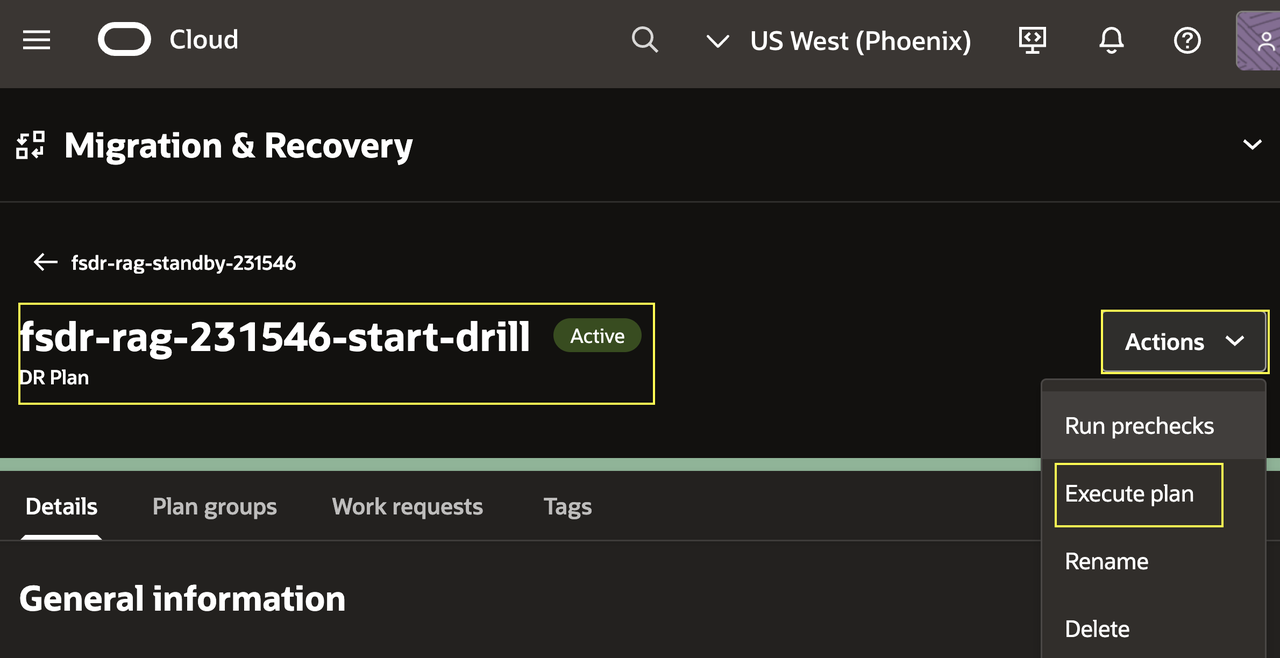
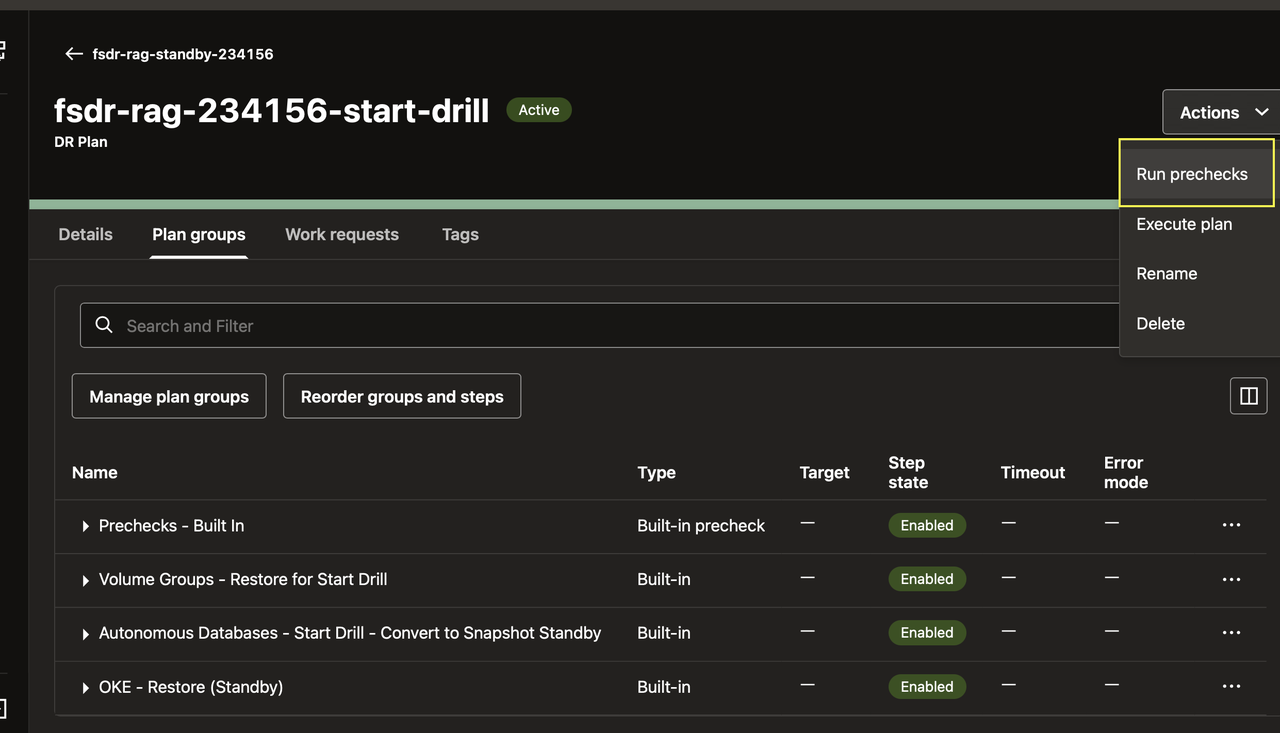
Additional feedback
Additional feedback

diff --git a/oci-fullstack-recovery/oci-fullstack-oke/configure-backup-recovery/configure-backup-recovery.md b/oci-fullstack-recovery/oci-fullstack-oke/configure-backup-recovery/configure-backup-recovery.md
@@ -7,15 +7,21 @@ In this lab, use the supplied configuration script to configure OCI Full Stack B
 Watch the video below for a quick walk-through of the lab.
 [Configure and Execute Full Stack Backup Recovery](videohub:1_d7qsytvw)
 
-The synthetic AI workload runs on both compute VMs as a scheduler. It continuously updates a counter by completing one job every minute. Record the counter value before and after Full Stack BR operations and use it to observe workload continuity during backup and recovery testing.
+The synthetic AI workload runs on both compute VMs and completes one job every minute. Record the job counter before and after Full Stack BR operations to observe workload continuity during backup and recovery testing.
 
-At a high level, the configuration script creates the backup policy and Full Stack BR protection group, adds the compute and volume group members, and activates protection. You then use the OCI Console to create or review member backups, create a recovery point from the Recovery Catalog, and use a Full Stack BR plan to recover a protected compute resource.
+The configuration script creates the backup policy and Full Stack BR protection group, adds the compute and volume group members, and activates protection. You then review the member backups, create a recovery point, and run the recovery plan.
 
-**Before you begin:** Start the Start Drill execution in Lab 3, Task 2, Steps 1–4. Begin this lab during the drill wait, using the Ashburn Cloud Shell. Keep the Phoenix drill execution open in another tab.
+**Before you begin:** Start the Start Drill in Lab 3, Task 2, Steps 1–4. Then:
 
-**When to switch back to Full Stack DR:** Check the drill status between steps and while waiting for operations. As soon as the Start Drill shows **Succeeded**, note your current Lab 5 task, step, and any running operation, then pause these instructions. Leave running scripts, backups, and recovery operations open and let them continue; do not cancel or restart them. Return to [Lab 3](?lab=execute-prechecks-start-drill), Task 2, Step 5, complete the remaining checks, and then finish [Lab 4](?lab=test-recovery). If the drill fails, return to Lab 3 to investigate; do not start Lab 4 until the drill succeeds.
+- Begin Lab 5 during the drill wait using the Ashburn Cloud Shell.
+- Keep the Phoenix drill execution open in another browser tab.
+- Check the drill status between Lab 5 steps.
 
-**After Lab 4:** Return to your recorded Lab 5 task and step. Check the status of any operation you left running before continuing; do not submit it again. Complete every remaining task in this lab. If you already completed Lab 5 during the drill wait, you do not need to repeat it.
+**When the Start Drill shows Succeeded:** Pause Lab 5 and note your current task and step. Leave running operations open, return to [Lab 3](?lab=execute-prechecks-start-drill), complete the remaining checks, and finish [Lab 4](?lab=test-recovery). Then resume Lab 5.
+
+If the drill fails, return to Lab 3 to investigate.
+
+**After Lab 4:** Return to your recorded Lab 5 task and step. Check any operation you left running before continuing; do not submit it again. Complete the remaining tasks in this lab.
 
 Estimated Time: 20 minutes
 
@@ -34,6 +40,8 @@ In this lab, you will:
 
 1. In the **Ashburn** region, open the OCI Console navigation menu and select **Compute**, then **Instances**. In the compartment assigned to you, locate these two compute instances:
 
+    ![OCI Console navigation menu showing Compute and Instances in Ashburn](./images/oci-navigation-ashburn-compute-instances.png)
+
     - `fsr-ai-app-recovery-vm-0`
     - `fsr-ai-app-recovery-vm-1`
 
@@ -42,6 +50,8 @@ In this lab, you will:
     ![Ashburn Full Stack BR compute instances](./images/full-stack-br-compute-instances.png)
 
 2. In separate browser tabs, open `http://<public-ip-1>` for VM 0 and `http://<public-ip-2>` for VM 1. Use the first tab to monitor VM 0 and the second tab to monitor VM 1. Record the number of completed AI jobs shown by the synthetic AI workload on each VM. These values are the baseline for the Full Stack BR backup and recovery validation. Keep both tabs open throughout Lab 5 and return to them at each major Full Stack BR milestone to record the updated counters.
+
+    If a browser security warning appears when opening the VM workload page, proceed to the site and continue. If you encounter another browser error, try a different browser or use a private/incognito window.
 
     **In the example run, the baseline is 454 completed jobs on each VM. Your values will vary depending on when each VM was started and how long the workload has been running. Always use the values displayed in your own VM tabs when comparing checkpoints.**
 
@@ -90,6 +100,8 @@ In this lab, you will:
 ## Task 3: Review the Full Stack BR Protection Group
 
 1. In the Ashburn OCI Console, open the navigation menu and select **Migration & Recovery**, then **Backup Recovery**.
+
+    ![OCI Console navigation menu showing Migration & Recovery and Backup Recovery in Ashburn](./images/oci-navigation-ashburn-backup-recovery.png)
 
     Confirm that the **Backup Recovery** protection-group page is open and that the Full Stack BR protection group created by the script appears in the assigned compartment. Its name follows the pattern `fsbr-vm-vg-xxxxxx`, where `xxxxxx` is generated for your environment.
 
@@ -160,6 +172,8 @@ In this lab, you will:
     ![Create a Full Stack BR recovery point](./images/full-stack-br-create-recovery-point.png)
 
 3. Monitor the Recovery catalog until **First recovery point** is **Active**. Confirm that the recovery point is available and uses the member backups created in Task 4.
+
+    Open the recovery point details and confirm that it references the four active member backups created in Task 4: two compute-instance backups and two volume-group backups.
 
     ![Active First recovery point](./images/full-stack-br-recovery-catalog-point.png)
 

diff --git a/oci-fullstack-recovery/oci-fullstack-oke/configure-fsdr/configure-fsdr.md b/oci-fullstack-recovery/oci-fullstack-oke/configure-fsdr/configure-fsdr.md
@@ -2,7 +2,9 @@
 
 ## Introduction
 
-Configure Full Stack DR for the AI application from Lab 1. Keep the original Ashburn Cloud Shell session available. The configuration creates DR Protection Groups and DR plans for the primary and standby regions. It configures the DR plan to convert the standby Autonomous AI Database to a snapshot standby when you execute Start Drill in Lab 3.
+Configure OCI Full Stack DR for the AI application deployed in Lab 1. Keep the original Ashburn Cloud Shell session available.
+
+This lab creates DR protection groups and plans for the primary and standby regions. The Start Drill plan converts the standby Autonomous AI Database to the Snapshot Standby role, restores the application to the standby OKE cluster, and restores its associated storage when you execute the plan in Lab 3.
 
 Watch the video below for a quick walk-through of the lab.
 [Configure Full Stack DR](videohub:1_zwchhrdr)
@@ -19,7 +21,7 @@ Estimated Time: 15 minutes
 
 In this lab, you will:
 
-- Run the Full Stack DR snapshot standby configuration script.
+- Run the Full Stack DR configuration script.
 - Confirm that the configuration completes successfully.
 - Verify the DR protection groups and DR plans in the OCI Console.
 
@@ -35,7 +37,7 @@ In this lab, you will:
     </copy>
     ```
 
-2. Run the Full Stack DR snapshot standby configuration script.
+2. Run the Full Stack DR configuration script.
 
     Before you run the script, review the configuration flow. The script performs these actions in order:
 
@@ -75,6 +77,14 @@ In this lab, you will:
 
 1. While the script runs, open two additional OCI Console tabs. Set one to **Ashburn** and the other to **Phoenix**. Keep the Ashburn Cloud Shell tab open. In each Console tab, select **Migration & Recovery**, then **Recovery**, and then **Disaster Recovery**.
 
+    **Ashburn:**
+
+    ![OCI Console navigation menu showing Migration & Recovery, Recovery, and Disaster Recovery in Ashburn](./images/oci-navigation-ashburn-disaster-recovery.png)
+
+    **Phoenix:**
+
+    ![OCI Console navigation menu showing Migration & Recovery, Recovery, and Disaster Recovery in Phoenix](./images/oci-navigation-phoenix-disaster-recovery.png)
+
 2. In both OCI Console tabs, change to the compartment assigned to you. Expand the root compartment, select **Livelabs**, and then select your assigned compartment.
 
 3. Open **DR Protection groups** in each Console tab and monitor the pages as the primary and standby protection groups are created. Refresh the Console tabs periodically if the resources do not appear immediately; do not refresh the Cloud Shell tab. Verify the region-specific names:
@@ -100,7 +110,7 @@ In this lab, you will:
 
     ![Phoenix Full Stack DR protection groups members](./images/phoenix-full-stack-dr-protection-groups-members.png)
 
-5. After you confirm successful completion in the Ashburn Cloud Shell, use the Phoenix Console tab to open the plans for the **standby DR protection group**. Confirm that the following plans are available:
+5. After the configuration script in Task 1 completes successfully in the Ashburn Cloud Shell, use the Phoenix Console tab to open the plans for the **standby DR protection group**. Confirm that the following plans are available:
 
     ![Full Stack DR plans](./images/full-stack-dr-plans.png)
 
@@ -144,24 +154,14 @@ In this lab, you will:
 
     ![Start Drill plan groups in the standby DR protection group](./images/fsdr-start-drill-plan-groups.png)
 
-    After the separate precheck run in Lab 3, the **Start Drill** execution restores the Ollama volume group for the drill, converts the standby Autonomous Database to a snapshot standby, and restores the standby OKE cluster. These steps create a recovery test environment without changing the production roles of the DR protection groups.
+    The **Start Drill** plan uses these resources to create a recovery test environment without changing the production roles of the DR protection groups.
 
+    **Important:**
 
-    > **Workshop execution:** We will run the **Start Drill** plan as part of this workshop in **Lab 3**. Do not execute it in Lab 2.
-
-    > ---
-
-    > **Stop Drill:** After the **Start Drill** plan completes successfully, Full Stack DR allows you to create a **Stop Drill** plan to end the drill and restore the environment. Creating or running a **Stop Drill** plan is not part of this workshop.
-
-    > ---
-
-    > **DR protection group roles:** Executing a successful **Switchover** or **Failover** plan changes the roles of the DR protection groups. After the role change, you can create Switchover and Failover plans in the new standby DR protection group. Executing a **Start Drill** or **Stop Drill** plan does not change the roles of the DR protection groups.
-
-    > ---
-
-    > **User-defined plan groups:** Full Stack DR allows you to customize plans with user-defined plan groups. You can add your own scripts or OCI Functions alongside the built-in plan groups, or create a plan containing only user-defined plan groups. This workshop does not customize the DR plans with user-defined plan groups. To configure them, use **Manage plan groups**.
-
-    Do not click **Start**, **Execute**, or **Run Prechecks** for any plan in Lab 2. The **Start Drill** plan is executed in Lab 3.
+    - Do not run or precheck any plan in Lab 2. The **Start Drill** plan runs in Lab 3.
+    - After a successful **Start Drill**, you can create a **Stop Drill** plan to end the drill and restore the environment. Running it is outside the scope of this workshop.
+    - **Switchover** and **Failover** change the DR protection group roles. **Start Drill** and **Stop Drill** do not change the roles.
+    - This workshop uses the built-in plan groups. User-defined plan groups are not covered; use **Manage plan groups** to customize plans.
 
 In Lab 3, you will run prechecks and execute the **Start Drill** plan, then monitor the drill execution until it succeeds.
 

diff --git a/oci-fullstack-recovery/oci-fullstack-oke/execute-prechecks-start-drill/execute-prechecks-start-drill.md b/oci-fullstack-recovery/oci-fullstack-oke/execute-prechecks-start-drill/execute-prechecks-start-drill.md
@@ -2,16 +2,18 @@
 
 ## Introduction
 
-In this lab, run prechecks and execute the Full Stack DR **Start Drill** plan from Lab 2. The drill starts recovery in the Phoenix standby region. It does not promote Phoenix to the production role. Leave the drill running after it completes. Lab 4 validates the application there.
+In this lab, run prechecks and execute the Full Stack DR **Start Drill** plan from Lab 2. The drill restores the application in the Phoenix standby region without promoting Phoenix to the production role. Lab 4 validates the recovered application there.
 
 Watch the video below for a quick walk-through of the lab.
 [Execute Prechecks and Start Drill](videohub:1_v9tpaggr)
 
-Complete Lab 3 Task 1 and start the Start Drill execution in Task 2. Use the drill wait to work on Lab 5. The Start Drill can take 15–20 minutes. When it succeeds, pause your Lab 5 instructions, complete the remaining Lab 3 checks, and finish Lab 4 before resuming any unfinished Lab 5 tasks.
+Complete Task 1 and Task 2, Steps 1–4, to start the Start Drill. The drill may take **15–20 minutes**.
+
+While the drill runs, begin Lab 5. When the drill succeeds, pause Lab 5, complete Lab 3, and finish Lab 4. Then resume Lab 5 from where you stopped.
 
 **Before you begin:** Complete Lab 2 and open the Phoenix OCI Console tab.
 
-Run the plan prechecks and execution from the standby DR protection group in Phoenix.
+In this lab, you will run the Start Drill plan prechecks and execution from the standby DR protection group in Phoenix.
 
 The application namespace is `ai-fsdr-lab`. The Start Drill restores the application resources for this namespace in the Phoenix standby OKE cluster.
 
@@ -59,6 +61,8 @@ In this lab, you will:
 
 ## Task 2: Execute and Monitor the Start Drill Plan
 
+The Start Drill tests recovery in Phoenix without changing the production role. It restores the standby database, OKE application, storage, and related resources, then runs validation checks. The drill may take approximately **15–20 minutes**.
+
 1. Return to the **fsdr-rag-xxxxxx-start-drill** plan. Open **Actions** and select **Execute plan**.
 
     ![Actions menu with Execute plan selected for the Start Drill plan](./images/start-drill-actions-execute-plan.png)
@@ -70,8 +74,6 @@ In this lab, you will:
 3. Review the warning dialog. Confirm that you understand the risks and click **Execute plan** to start the drill.
 
     ![Execute plan warning confirmation](./images/start-drill-execute-warning.png)
-
-    The Start Drill plan runs the drill-specific database, application, OKE, and storage tasks for this protection group. It does not perform a production switchover. It does not promote the Phoenix standby environment to the production role.
 
 4. Open the plan execution created by the Start Drill operation. Select **Plan execution groups** and monitor the execution as it runs. The execution page shows plan groups and their tasks in run order.
 
@@ -85,9 +87,9 @@ In this lab, you will:
 
     ![Start Drill execution showing Autonomous Database snapshot standby conversion completed while OKE restore remains in progress](./images/autonomous-database-snapshot-standby-in-progress.png)
 
-    **While the drill runs, open [Lab 5: Configure and Execute Full Stack Backup Recovery](?lab=configure-backup-recovery) in a separate browser tab and use the Ashburn Cloud Shell.** Keep the Phoenix drill execution open and check its status between Lab 5 steps and while waiting for operations.
+    **While the drill runs, work on [Lab 5: Configure and Execute Full Stack Backup Recovery](?lab=configure-backup-recovery) in a separate browser tab using the Ashburn Cloud Shell.** Keep the Phoenix drill execution open and check its status between Lab 5 steps.
 
-    **When the drill shows Succeeded, pause your Lab 5 instructions.** Note your current task, step, and any running operation. Leave running scripts, backups, and recovery operations open; do not cancel or restart them. Return here to Step 5, complete Steps 5–8, and finish Lab 4. Then resume and finish Lab 5. If Lab 5 finishes first, return here to monitor the drill. If the drill fails, return here to investigate. Do not start Lab 4 until the drill succeeds.
+    **When the drill shows Succeeded, pause Lab 5.** Note your current task and step, leave running operations open, and return here to complete Steps 5–8. Then finish Lab 4 and resume Lab 5. If the drill fails, return here to investigate. Do not start Lab 4 until the drill succeeds.
 
 5. Continue expanding plan groups as they run. Monitor each task state and review any warning, failure, or skipped task before you retry or change configuration.
 
@@ -107,7 +109,9 @@ In this lab, you will:
 
     ![Standby DR protection group showing drill in progress and inactive plans](./images/standby-drill-in-progress.png)
 
-8. After a Start Drill completes, you can create and run a **Stop Drill** plan to convert the application stack back to its state before the drill. Creating or running a Stop Drill plan is outside the scope of this workshop; leave the drill active for Lab 4.
+    **Expected result:** The application has been restored in the Phoenix standby OKE cluster. The standby Autonomous Database has been converted to the **Snapshot Standby** role so it can accept connections from the recovered application during the drill. The Phoenix environment is ready for validation in Lab 4; it has not been promoted to the production role.
+
+8. After the Start Drill succeeds, you can create and run a **Stop Drill** plan to convert the application stack back to its state before the drill. Creating or running a Stop Drill plan is outside the scope of this workshop; leave the drill active for Lab 4.
 
     A successful **Switchover** or **Failover** plan changes the role of the DR protection group. A **Start Drill** does not change that role; it keeps the protection group in its standby role while the drill runs.
 

diff --git a/oci-fullstack-recovery/oci-fullstack-oke/introduction/introduction.md b/oci-fullstack-recovery/oci-fullstack-oke/introduction/introduction.md
@@ -20,19 +20,7 @@ This workshop demonstrates resiliency at two levels: Full Stack DR provides cros
 
 Together, these tracks demonstrate cross-region application DR orchestration with Full Stack DR and single-region backup and recovery orchestration with Full Stack BR.
 
-### Lab Execution Order
-
-For this 90-minute workshop, follow this order: **Lab 1 → Lab 2 → start Lab 3 → work on Lab 5 during the drill wait → finish Labs 3–4 when the drill succeeds → resume and finish Lab 5**.
-
-In Lab 3, complete Task 1 and Task 2, Steps 1–4, to start the drill. Keep the Phoenix drill execution open, then open [Lab 5: Configure and Execute Full Stack Backup Recovery](?lab=configure-backup-recovery) in a separate browser tab. Use the Ashburn Cloud Shell for Lab 5. Check the drill status between Lab 5 steps and while waiting for operations.
-
-**When the Start Drill execution shows Succeeded, pause your Lab 5 instructions and prioritize Full Stack DR.** Note your current Lab 5 task, step, and any running operation. Leave running scripts, backups, and recovery operations open and let them continue; do not cancel or restart them. Return to Lab 3, Task 2, Step 5, complete the remaining checks, and then finish Lab 4. After Lab 4, resume Lab 5 from your recorded position and finish all remaining tasks. Both tracks are required to complete the workshop.
-
-If Lab 5 finishes before the drill, return to Lab 3 to monitor it and complete Labs 3–4 once it succeeds. If the drill fails, return to Lab 3 to investigate; do not start Lab 4 until the drill succeeds.
-
-The sidebar and **Next** button follow numerical lab order. Use the links in the lab instructions for the Lab 3–Lab 5 handoff.
-
-## Task 1: Review the Service Overview
+## Task: Service Overview
 
 1. Review the services and resources used in this workshop.
 
@@ -82,7 +70,7 @@ The sidebar and **Next** button follow numerical lab order. Use the links in the
 
     ### Full Stack Backup Recovery
 
-    OCI Full Stack BR provides coordinated backup and recovery for OCI resources within one region. It protects infrastructure state, backup configuration, member backups, and BR points that form consistent recovery points.
+    OCI Full Stack BR provides coordinated backup and recovery for OCI resources within one region. It protects infrastructure state, backup configuration, member backups, and recovery points.
 
     In this workshop, Full Stack BR protects two Ashburn compute virtual machines and an individual volume group for each VM. You configure the BR protection group and policy, review the catalog and recovery point, and run a backup and recovery plan.
 
@@ -105,8 +93,6 @@ The sidebar and **Next** button follow numerical lab order. Use the links in the
     - Protect the infrastructure and data required by AI workloads.
     - Customize recovery plans with application-specific validation.
     - Test recovery readiness through drills before an outage.
-
-    Estimated Workshop Time: 90 minutes
 
 ## Workshop Architecture
 
@@ -145,6 +131,21 @@ The workshop environment includes the following resources for the two resiliency
 - Review the Full Stack BR recovery catalog and recovery points.
 - Run Full Stack BR backup and recovery plans and verify their executions.
 - Troubleshoot common policy, context, replication, and application-validation issues.
+
+## Lab Execution Order
+
+Estimated Workshop Time: approximately 90 minutes
+
+For this workshop:
+
+1. Complete Lab 1.
+2. Complete Lab 2.
+3. Start Lab 3 and run the Start Drill.
+4. While the Start Drill is running, begin Lab 5.
+5. When the Start Drill succeeds, pause Lab 5 and complete Labs 3 and 4.
+6. Resume Lab 5 and complete the remaining steps.
+
+Lab 5 may still be in progress when you return to Labs 3 and 4. Keep running operations open; do not cancel or restart them.
 
 ## Reference Links
 

diff --git a/oci-fullstack-recovery/oci-fullstack-oke/test-recovery/test-recovery.md b/oci-fullstack-recovery/oci-fullstack-oke/test-recovery/test-recovery.md
@@ -7,9 +7,9 @@ After the Full Stack DR Start Drill plan completes, run the post-DR script to po
 Watch the video below for a quick walk-through of the lab.
 [Execute Post-DR Script and Validate the App](videohub:1_jqhuyewg)
 
-Complete Lab 3 and wait for the Start Drill plan to finish successfully before starting this lab. Lab 4 depends on the completed Start Drill environment.
+Start Lab 4 after the Start Drill succeeds and the remaining Lab 3 checks are complete. Lab 4 depends on the recovered Phoenix environment.
 
-**Before you begin:** Open Cloud Shell in the Phoenix region and use the application package from Lab 1.
+**Before you begin:** Open Cloud Shell in the Phoenix region. The Full Stack DR Start Drill has restored the application in the Phoenix standby environment.
 
 The restored application runs in the `ai-fsdr-lab` namespace on the Phoenix standby OKE cluster. Use `kubectl -n ai-fsdr-lab` for application checks and troubleshooting.
 
@@ -28,7 +28,7 @@ In this lab, you will:
 
 ## Task 1: Execute the Post-DR Script
 
-1. Open Cloud Shell in the **Phoenix** region. Navigate to the `scripts` directory from the application package that you extracted in Lab 1:
+1. Open Cloud Shell in the **Phoenix** region. Navigate to the `scripts` directory from the application package downloaded and extracted in Lab 1:
 
     ```bash
     <copy>
@@ -77,7 +77,18 @@ In this lab, you will:
 
 ## Task 2: Validate the Cloud-Native AI Workload
 
-1. Open the recovered application URL in a separate browser tab.
+1. Open the recovered application URL in a separate browser tab. Use `http://` followed by the `EXTERNAL-IP` value from Task 1, Step 4.
+
+    If the page does not open, confirm that the external IP is no longer `<pending>` and check the service and pod status in the Phoenix Cloud Shell:
+
+    ```bash
+    <copy>
+    kubectl -n ai-fsdr-lab get svc ai-frontend
+    kubectl -n ai-fsdr-lab get pods
+    </copy>
+    ```
+
+    Wait a few minutes if the load balancer was recently created, then retry the URL. If the page still does not open, clear the browser cache, try a different browser, or open the URL in a private or incognito browser window. Do not continue until the frontend opens.
 
 2. Confirm that the frontend loads. Verify that the API, Autonomous DB, and Ollama statuses show **ok** or **up**, that **Active DB region** and **Connected DB region** show `us-phoenix-1`, and that the model is `granite4.1:3b`.
 

diff --git a/oci-fullstack-recovery/oci-fullstack-oke/deploy-ai-workload/deploy-ai-workload.md b/oci-fullstack-recovery/oci-fullstack-oke/deploy-ai-workload/deploy-ai-workload.md
@@ -111,7 +111,7 @@ In this lab, you will:
     </copy>
     ```
 
-    When prompted, enter these values. Passwords remain hidden. Enter each password twice so the script can catch typing mistakes before deployment begins. Press **Enter** after each value.
+    When prompted, enter these values. **Passwords are not visible while you type them in Cloud Shell. This is expected.** Enter each password twice so the script can catch typing mistakes before deployment begins. Press **Enter** after each value.
 
     - **Database username: `ADMIN`**
     - **Database password: `AIWorld2026!`**
@@ -131,6 +131,8 @@ In this lab, you will:
     ![Monitor AI application deployment](./images/monitor-ai-application-deployment-1.png)
 
     **Expected result:** The script returns to the shell prompt without an error. If it reports an error, verify the values from Step 1 and rerun the step.
+
+    If the deployment output displays an **Application URL**, open it in a separate browser tab. If it is not displayed, you will retrieve the URL in Step 4.
 
     ![Monitor AI application deployment](./images/monitor-ai-application-deployment-2.png)
 
@@ -157,7 +159,7 @@ In this lab, you will:
     ```
     ![Application details](./images/application-details.png)
 
-    Click the **Application URL** displayed in the output of Step 2 or copy the `ai-frontend` service's **External IP** value and open it in a separate browser tab. This is the application URL. If no external IP appears, wait a few moments and run the command again. You will validate the application in the next task.
+    The `ai-frontend` service's **External IP** is the application URL. If no external IP appears, wait a few moments and run the command again. You will validate the application in the next task.
 
 
 ## Task 3: Validate the AI Application Without and With RAG
